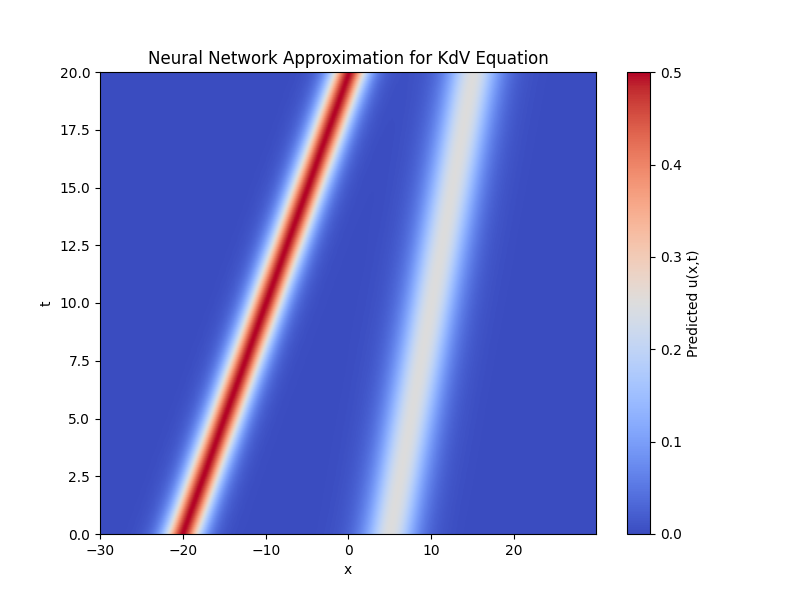
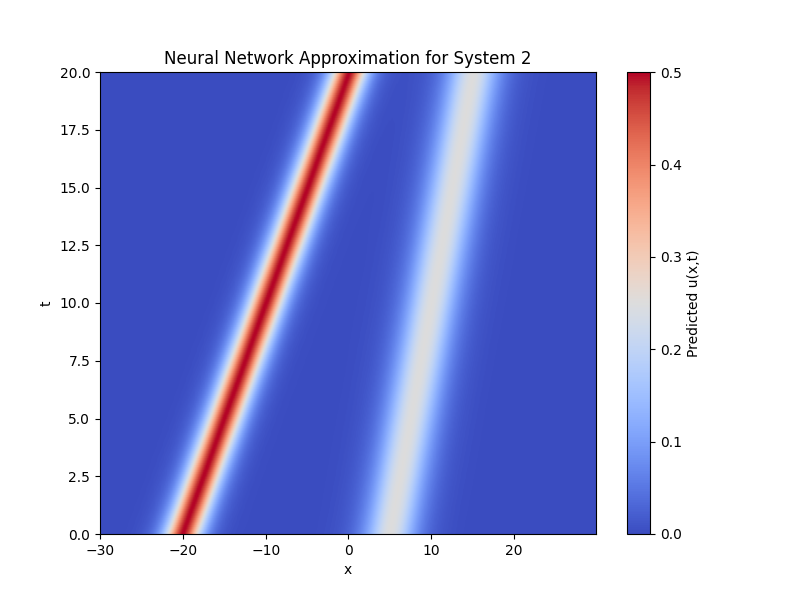
improved plots and error report for check sol

Changed region(s): [[0.1875, 0.09, 0.6875, 0.12]]

diff --git a/project_2/visualization.py b/project_2/visualization.py
@@ -87,7 +87,14 @@ def format_term(term, coeff):
     
     return f"{coeff_str}{term}"
 
-def plot_pde_comparison(X, functions, lhs_terms, rhs_terms, snapshot, results_dir, title=None):
+def plot_pde_comparison(X, 
+                        functions, 
+                        lhs_terms, 
+                        rhs_terms, 
+                        snapshot, 
+                        results_dir, 
+                        title=None,
+                        system="1"):
     """
     Plot PDE terms comparison and residual in separate subplots.
     Also calculates and reports the relative L2 error between LHS and RHS.
@@ -114,8 +121,6 @@ def plot_pde_comparison(X, functions, lhs_terms, rhs_terms, snapshot, results_di
     float
         Relative L2 error between LHS and RHS as a percentage
     """    
-    import numpy as np
-    import matplotlib.pyplot as plt
     
     # Calculate individual terms
     all_terms = lhs_terms + rhs_terms
@@ -138,10 +143,11 @@ def plot_pde_comparison(X, functions, lhs_terms, rhs_terms, snapshot, results_di
     residual = lhs - rhs
     
     # Calculate relative L2 error
-    l2_norm_residual = np.sqrt(np.mean(residual[:, snapshot]**2))
-    l2_norm_lhs = np.sqrt(np.mean(lhs[:, snapshot]**2))
+    l2_norm_residual = np.linalg.norm(lhs - rhs, 2)
+    l2_norm_lhs =  np.linalg.norm(lhs, 2)
     relative_l2_error = (l2_norm_residual / l2_norm_lhs) * 100  # as percentage
-    
+    print(f"Relative L2 error {relative_l2_error}% ")
+
     # Create figure with subplots
     n_terms = len(all_terms)
     fig = plt.figure(figsize=(15, 10))
@@ -170,7 +176,7 @@ def plot_pde_comparison(X, functions, lhs_terms, rhs_terms, snapshot, results_di
     
     ax2.plot(X[:, snapshot], lhs[:, snapshot], 
              label=f'LHS: ${lhs_label}$', color='darkblue')
-    ax2.set_title(f'LHS vs RHS (Relative L2 Error: {relative_l2_error:.2f}%)')
+    ax2.set_title(f'LHS vs RHS (Relative L2 Error: {relative_l2_error:.3f}%)')
     ax2.set_xlabel('x')
     ax2.set_ylabel('Value')
     ax2.grid(True)
@@ -187,10 +193,10 @@ def plot_pde_comparison(X, functions, lhs_terms, rhs_terms, snapshot, results_di
     # Set overall title
     if title is None:
         if rhs_terms:
-            title = f'${lhs_label} = {rhs_label}$'
+            title = f'System {system}: ${lhs_label} = {rhs_label}$'
         else:
-            title = f'${lhs_label} = 0$'
-    fig.suptitle(title, fontsize=14, y=0.95)
+            title = f'\n${lhs_label} = 0$'
+    fig.suptitle(title, fontsize=16, y=0.95, weight='bold')
     
     # Save and close
     plt.savefig(f'{results_dir}/check_sol.png', bbox_inches='tight')

diff --git a/project_2/evaluate.py b/project_2/evaluate.py
@@ -171,11 +171,7 @@ def main(system=1):
         print_best_tol=True
     )
     # After running ridge regression:
-    print_discovered_equation(candidates, ξ_best)
-
-    # Print error
-    error = np.linalg.norm(u_t_np - Theta_np @ ξ_best, 2) / np.linalg.norm(u_t_np, 2)
-    print(f"Relative L2 error {error * 100}% ")
+    print_discovered_equation(candidates, ξ_best, f_symbol="u_t")
 
     #==================================================
     # Prepare data for plotting
@@ -185,7 +181,7 @@ def main(system=1):
 
     # Add u and u_t
     functions['u'] = u
-    functions['u_t'] = u_t.detach().cpu().numpy().reshape(u.shape)
+    functions['u_t'] = u_t_np.reshape(u.shape)
 
     # Add all derivatives
     for key, value in derivatives.items():
@@ -205,26 +201,30 @@ def main(system=1):
     )
 
     # Plot 
-    snapshot = u.shape[1] // 5  # Choose a specific time snapshot, e.g., 1/4th of the total time
+    snapshot = u.shape[1] // 3  # Choose a specific time snapshot, e.g., 1/4th of the total time
     if system == 1:
-        # For u_t + u*u_x = 0.1*u_xx
+        # For u_t = - u*u_x + 0.1*u_xx
+        # compare results we got
         plot_pde_comparison(
             X=X,
             functions=functions,
-            lhs_terms=[('u_t', 1), ('u*u_x', 1)],
-            rhs_terms=[('u_xx', 0.1)],
+            lhs_terms=[('u_t', 1.0)],
+            rhs_terms=[('u*u_x', -0.997335), ('u_xx', 0.099140)],
             snapshot=snapshot,
-            results_dir=results_dir
+            results_dir=results_dir,
+            system=system
         )
     else:
-        # For u_t + 6*u*u_x = - u_xxx
+        # For u_t = - 6*u*u_x - u_xxx
+        # compare results we got
         plot_pde_comparison(
             X=X,
             functions=functions,
-            lhs_terms=[('u_t', 1), ('u*u_x', 6)],
-            rhs_terms=[('u_xxx', -1)],  # Empty list since everything is on LHS
+            lhs_terms=[('u_t', 1.0)],
+            rhs_terms=[('u*u_x', -5.964117), ('u_xxx', -0.987785)],  # Empty list since everything is on LHS
             snapshot=snapshot,
-            results_dir=results_dir
+            results_dir=results_dir,
+            system=system
         )
 
 if __name__ == "__main__":

diff --git a/project_2/test.py b/project_2/test.py
@@ -42,10 +42,10 @@ def main(system=1):
     # Load and prepare dataset
     if system == 1:
         path = 'data/1.npz'
-        name = "Burgers' Equation"
+        name = "System 1"
     else:
         path = 'data/2.npz'
-        name = "KdV Equation"
+        name = "System 2"
 
     print(f"Testing on dataset loaded from {path}")
     data = np.load(path)
